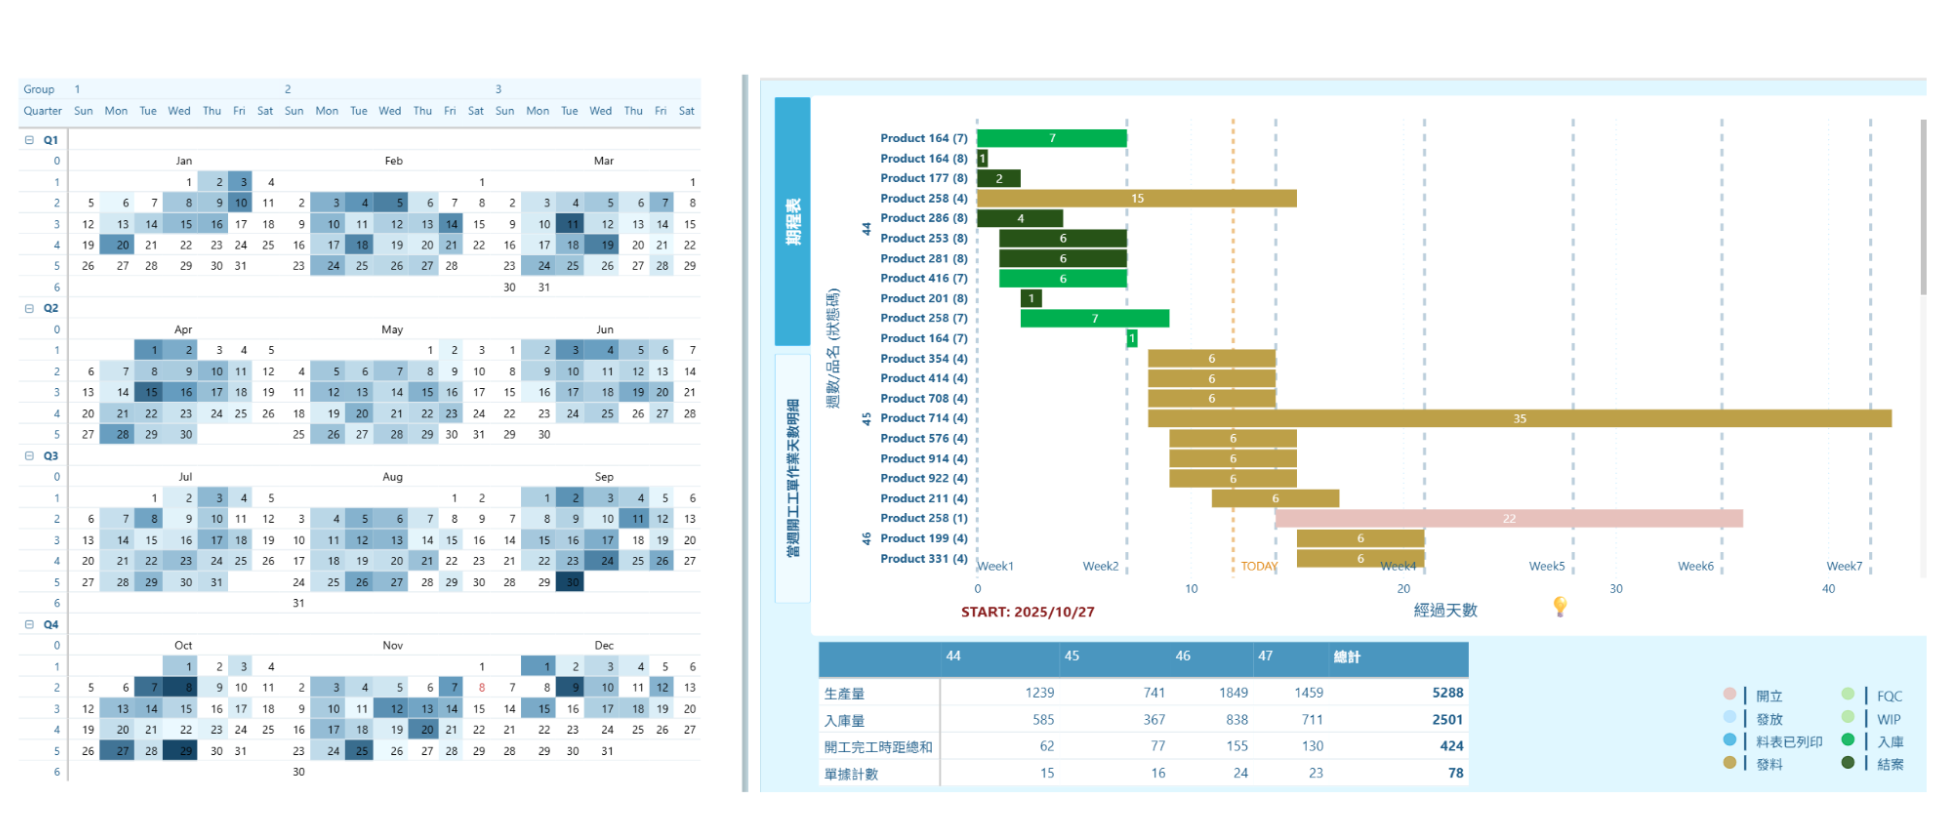
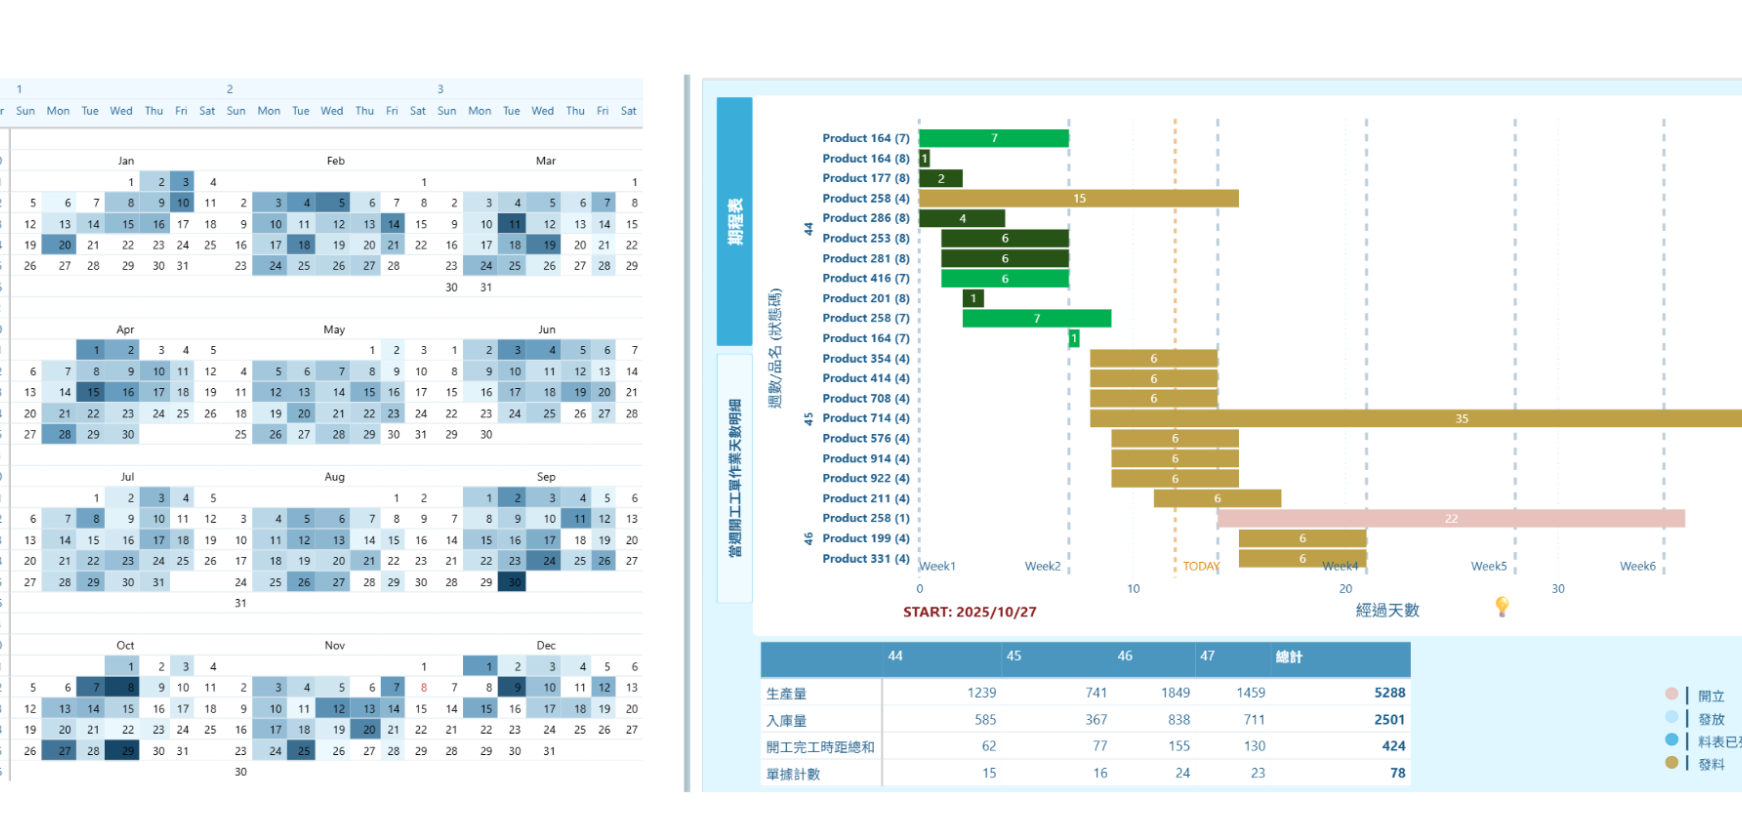
update

diff --git a/pages/project1.html b/pages/project1.html
@@ -9,32 +9,28 @@ project-date: 2025
 thumbnail: sales_target.png
 alt: Power BI - Sales Target
 ---
-<!DOCTYPE html>
-<html lang="en">
-<head>
-    <meta charset="UTF-8">
-    <title>Portfolio</title>
-    <!-- jQuery -->
-    <script src="https://code.jquery.com/jquery-3.5.1.min.js"></script>
-    <!-- Bootstrap Core JavaScript -->
-    <script src="https://stackpath.bootstrapcdn.com/bootstrap/3.4.1/js/bootstrap.min.js"></script>
-</head>
-<body>
 
-<h4>&#128161; Introduction &#128161;</h4>
-<p>This Power BI project visualizes company sales performance against targets to support strategic monitoring and decision-making. It incorporates key metrics such as <b>Current Achieved, Last Achieved, Current Backlog, Booking, Quota, Achieved %, Cumulative Achieved %, Growth %, Cumulative YOY %, and B/B Ratio </b>—each chosen to capture sales progress, year-over-year growth, demand versus fulfillment, and overall target attainment. <br><br> <b>Achievement and growth metrics</b> help evaluate short- and long-term performance, while <b>operational ratios</b> like the B/B Ratio reveal the balance between incoming orders and fulfilled sales, signaling future pipeline strength.
-<br><br> On the other hand, filters for <b>Year, Salesperson, Customer, Region, and Country</b> allow users to analyze performance across different time periods, individual contributions, key accounts, and market regions—supporting more targeted sales and resource strategies.</p>
-<p>Keywords: Data Analysis, Data Visualization, Power BI</p>
-<hr class="star-primary">
-<h4>&#128202; Dashboard Showcase </h4>
-<p>The report includes three pages: <br>
-•  <b>Sales Target Overview:</b> Trend charts and gauges display achievement rates, growth trends, and order ratios, with a detailed KPI table for reference. <br>
-• <b>Sales Breakdown:</b> A sunburst chart and matrix visualize the proportional contribution of each region, customer, and salesperson. <br>
-• <b>Cumulative Sales Achievement:</b> Dual bar charts compare quotas to actual performance, complemented by a color-coded table highlighting underperformance.</p>
-<div class="centered-iframe">
-    <iframe title="業績目標" width="800" height="400" src="https://app.powerbi.com/view?r=eyJrIjoiNTQxMjBjOTUtMThlNy00ZjJiLTk2M2ItMTM4MmM4ZWIyNGQ4IiwidCI6Ijc0MzkxNTMyLTk5YzktNDYwNy04NThkLTczMzI5MjkxZDc0YSJ9" frameborder="0" allowFullScreen="true"></iframe>
-</div>
-<br>
-
-</body>
-</html>
+<section id="portfolio" class="bg-light-gray">
+    <div class="container" id="programming">
+        <div class="row">
+            <div class="col-lg-12 text-center">
+                <h2 class="section-heading">Programming Project</h2>
+                <h3 class="section-subheading text-muted">Power BI - Sales Target Visualization</h3>
+                <h4>&#128161; Introduction &#128161;</h4>
+                <p>This Power BI project visualizes company sales performance against targets to support strategic monitoring and decision-making. It incorporates key metrics such as <b>Current Achieved, Last Achieved, Current Backlog, Booking, Quota, Achieved %, Cumulative Achieved %, Growth %, Cumulative YOY %, and B/B Ratio </b>—each chosen to capture sales progress, year-over-year growth, demand versus fulfillment, and overall target attainment. <br><br> <b>Achievement and growth metrics</b> help evaluate short- and long-term performance, while <b>operational ratios</b> like the B/B Ratio reveal the balance between incoming orders and fulfilled sales, signaling future pipeline strength.
+                <br><br> On the other hand, filters for <b>Year, Salesperson, Customer, Region, and Country</b> allow users to analyze performance across different time periods, individual contributions, key accounts, and market regions—supporting more targeted sales and resource strategies.</p>
+                <p>Keywords: Data Analysis, Data Visualization, Power BI</p>
+                <hr class="star-primary">
+                <h4>&#128202; Dashboard Showcase </h4>
+                <p>The report includes three pages: <br>
+                •  <b>Sales Target Overview:</b> Trend charts and gauges display achievement rates, growth trends, and order ratios, with a detailed KPI table for reference. <br>
+                • <b>Sales Breakdown:</b> A sunburst chart and matrix visualize the proportional contribution of each region, customer, and salesperson. <br>
+                • <b>Cumulative Sales Achievement:</b> Dual bar charts compare quotas to actual performance, complemented by a color-coded table highlighting underperformance.</p>
+                <div class="centered-iframe">
+                    <iframe title="業績目標" width="800" height="400" src="https://app.powerbi.com/view?r=eyJrIjoiNTQxMjBjOTUtMThlNy00ZjJiLTk2M2ItMTM4MmM4ZWIyNGQ4IiwidCI6Ijc0MzkxNTMyLTk5YzktNDYwNy04NThkLTczMzI5MjkxZDc0YSJ9" frameborder="0" allowFullScreen="true"></iframe>
+                </div>
+                <br>
+            </div>
+        </div>
+    </div>
+</section>

diff --git a/_includes/modals.html b/_includes/modals.html
@@ -12,14 +12,6 @@
                 <div class="row">
                     <div class="col-lg-8 col-lg-offset-2">
                         <div class="modal-body">
-                            {% if page.tags contains 'programming' %}
-                                <h2>{{ page.title }}</h2>
-                                <h4>{{ page.project-date }}</h4>
-                                <br>
-                                <p>{{ page.content }}</p>
-                                <br>
-                            {% endif %} 
-                            <br>
                             {% if post.tags contains 'policy' %}
                                 <h2>{{ post.title }}</h2>
                                 <h4>{{ post.project-date }}</h4>
